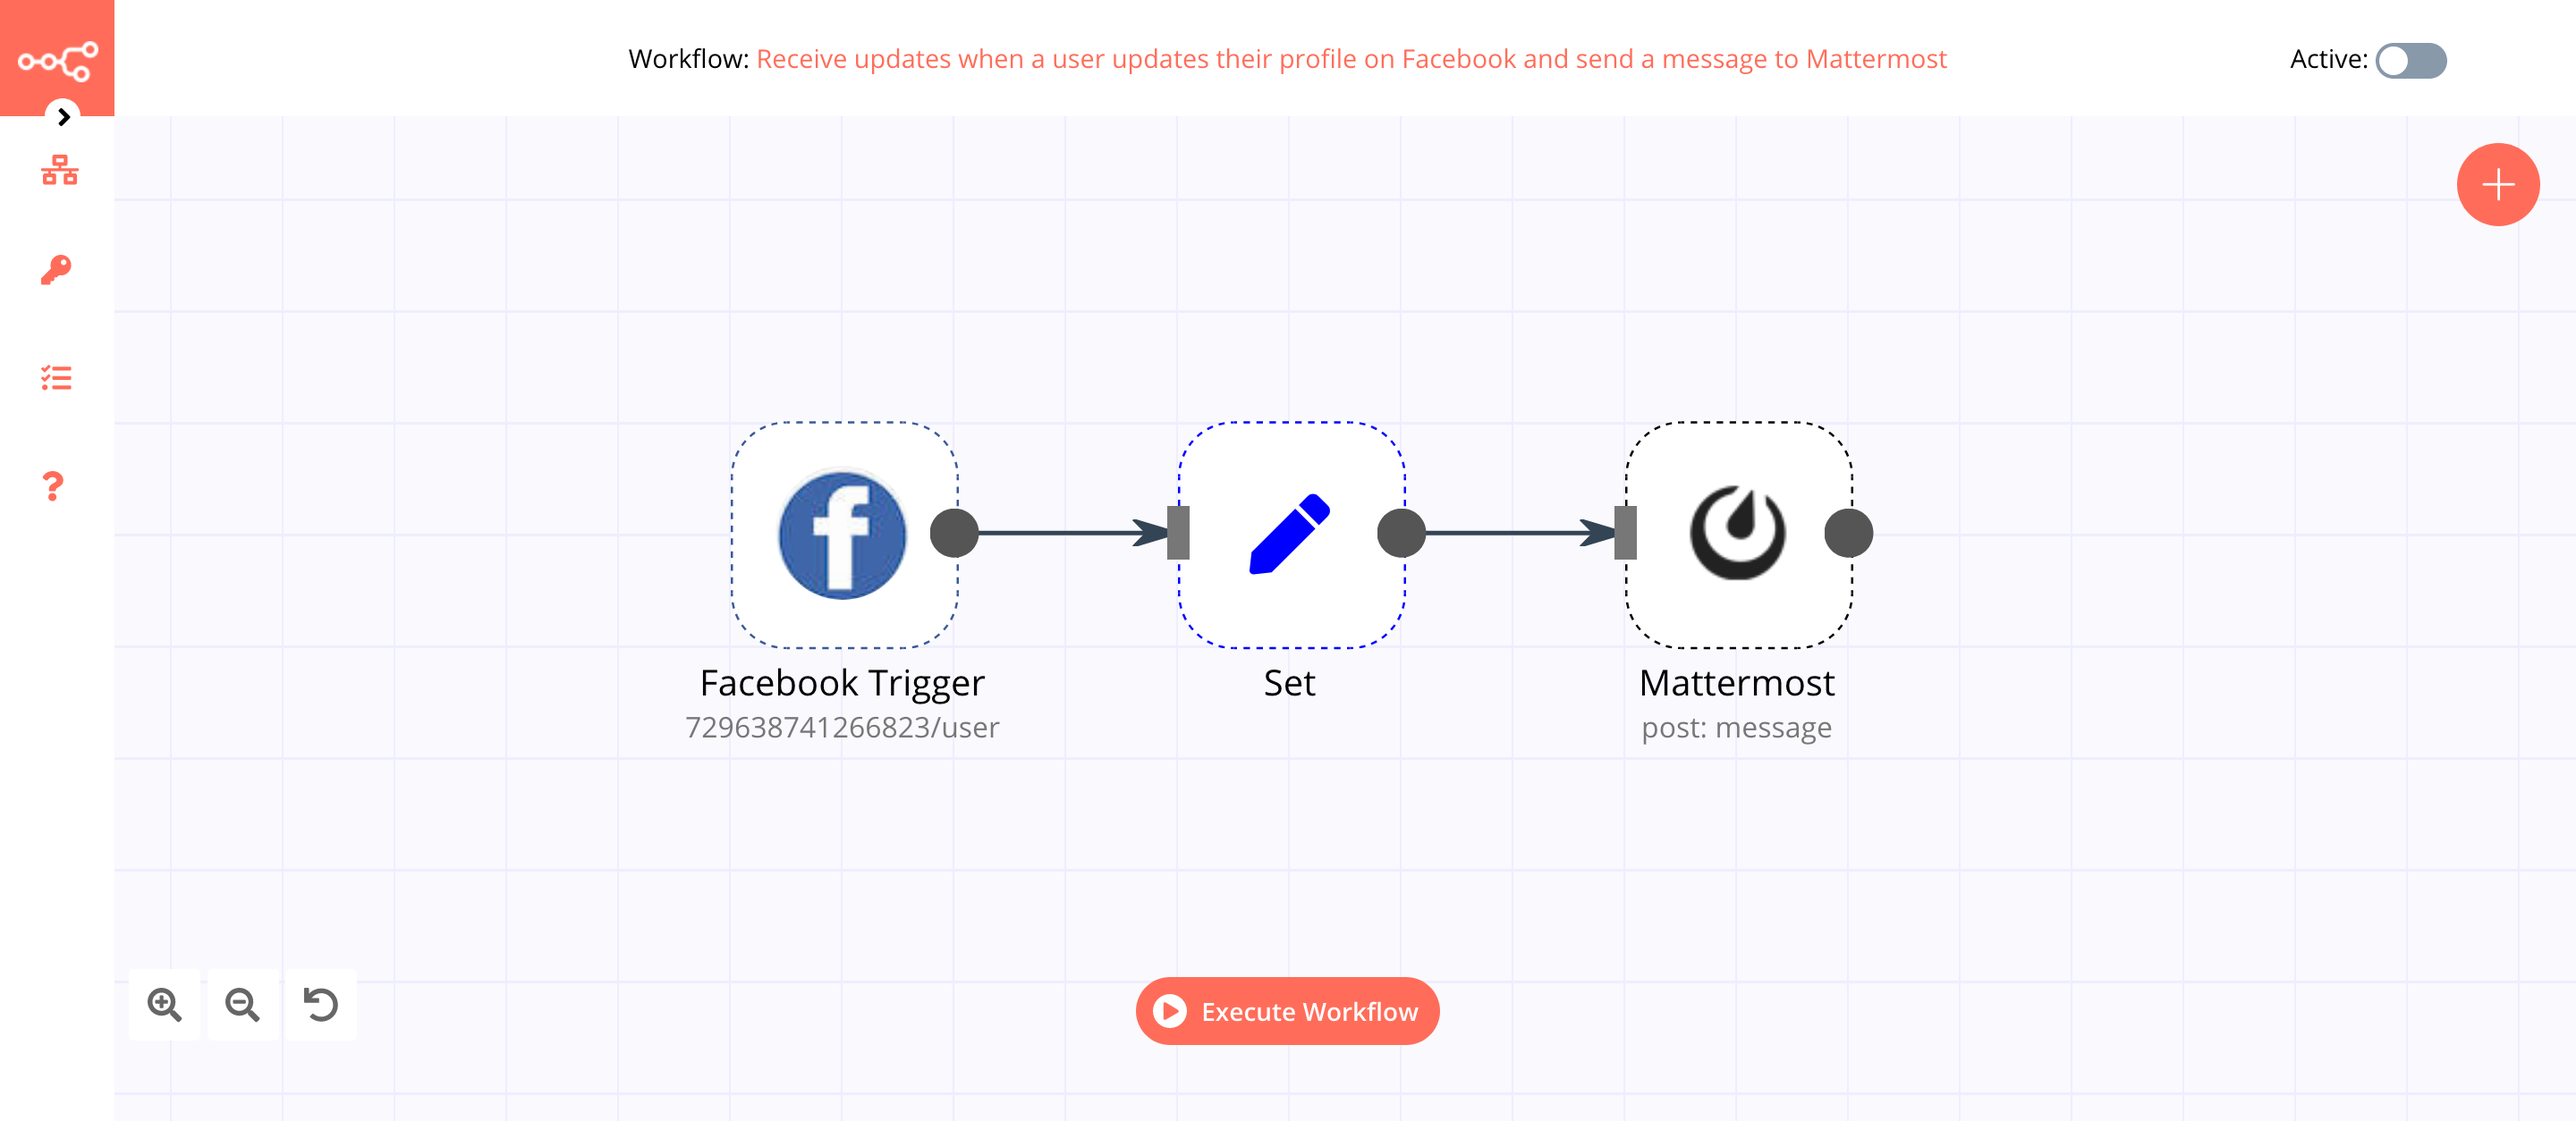
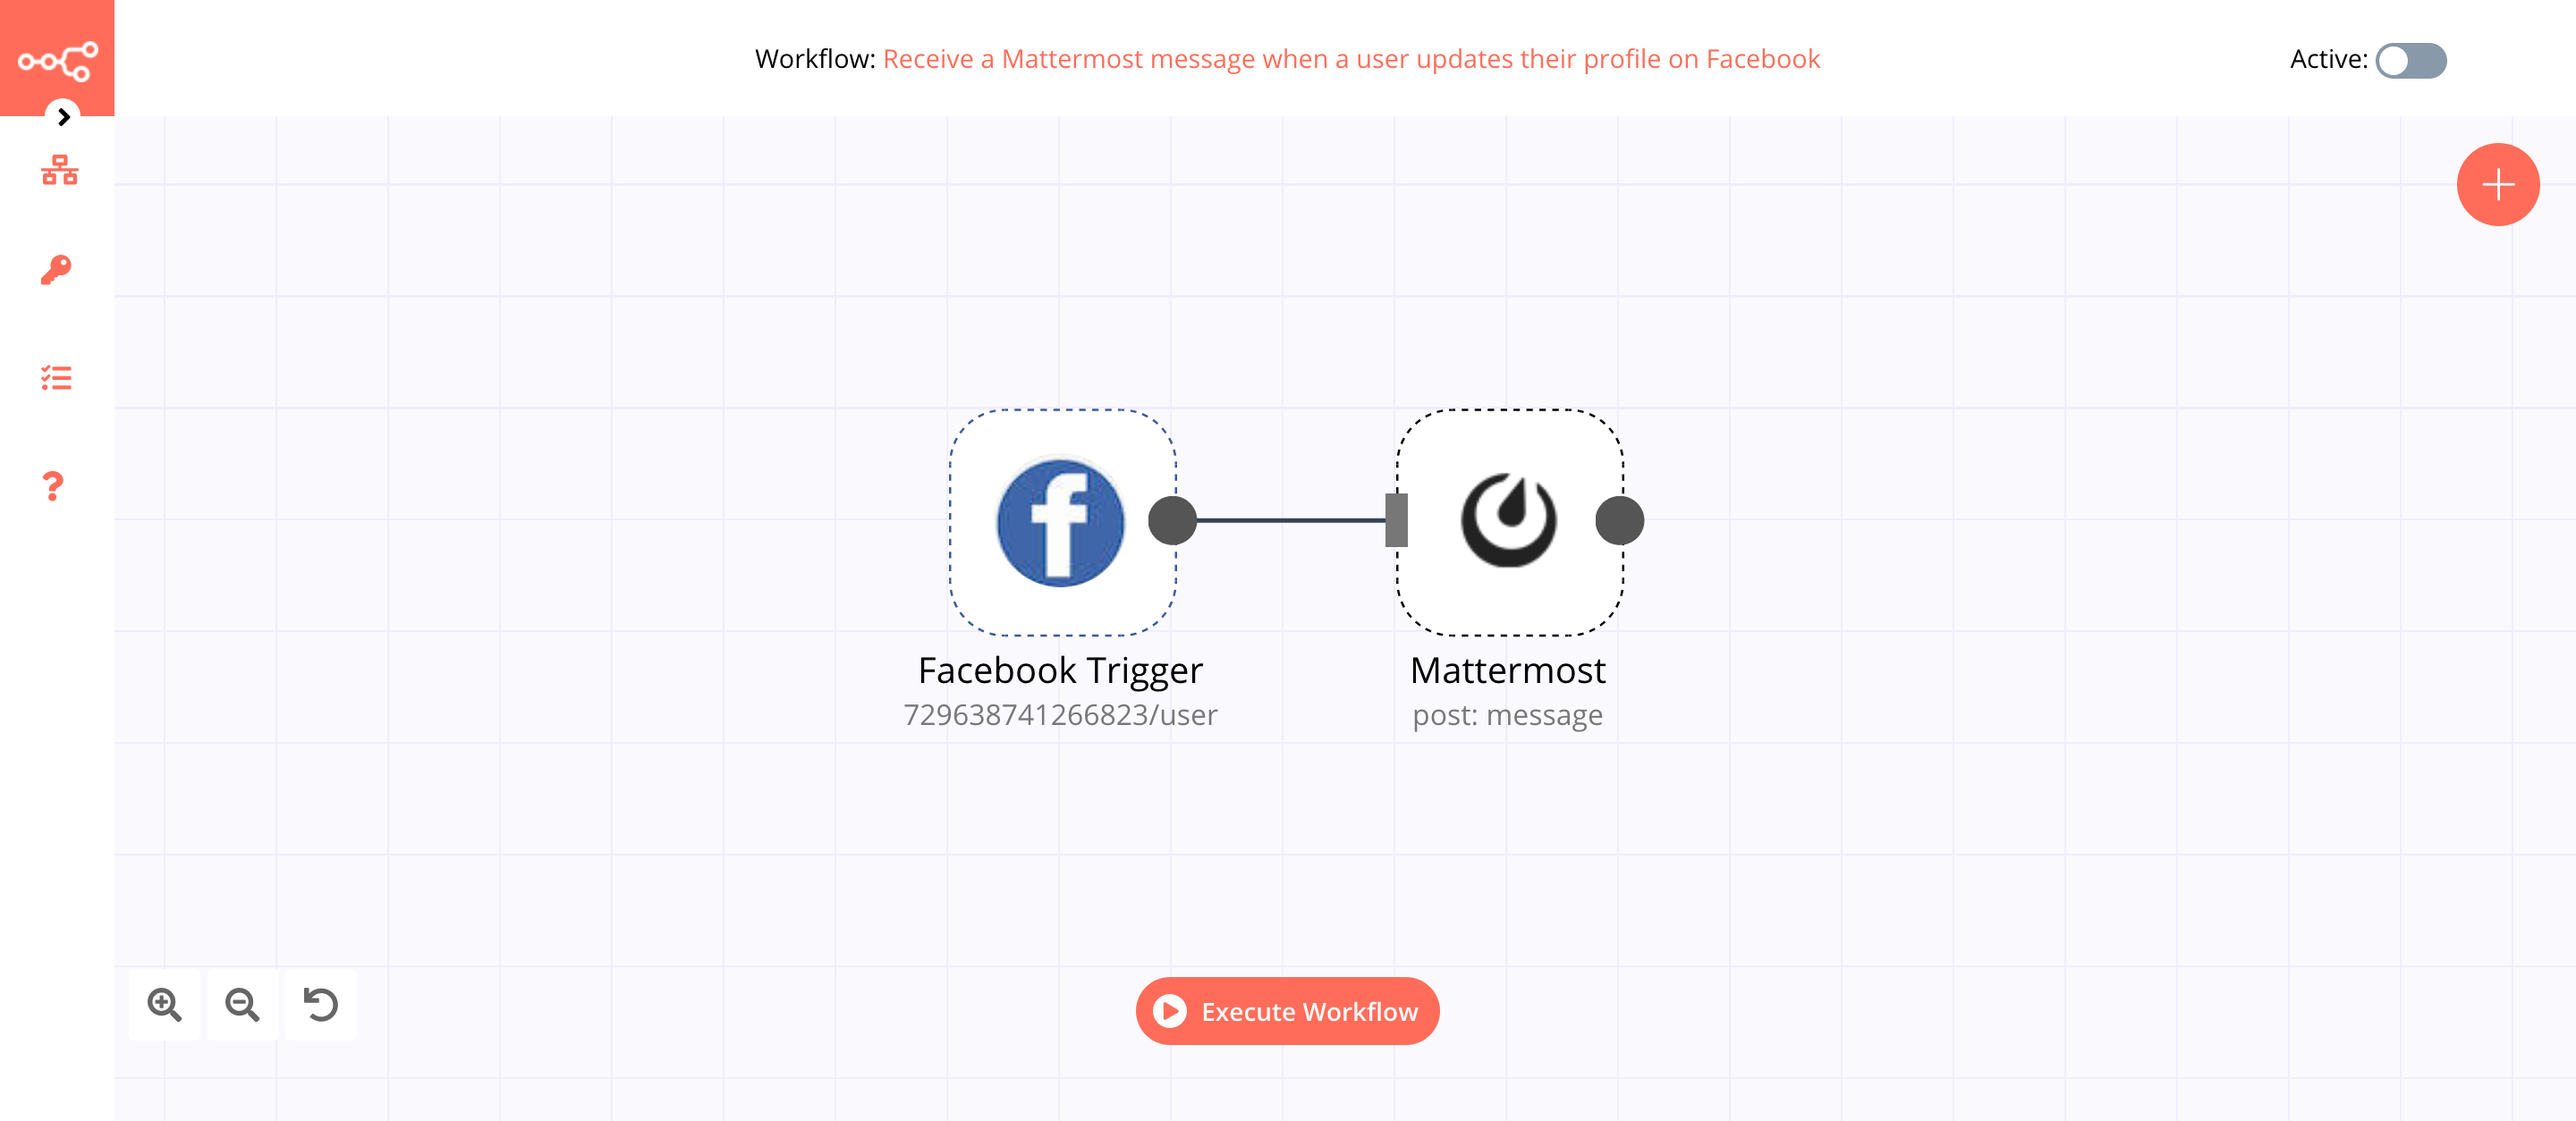
🔨Fix workflow

diff --git a/docs/nodes/nodes-library/trigger-nodes/FacebookTrigger/README.md b/docs/nodes/nodes-library/trigger-nodes/FacebookTrigger/README.md
@@ -27,9 +27,8 @@ You can find authentication information for this node [here](../../../credential
 
 ## Example Usage
 
-This workflow allows you to receive updates when a user updates their profile on Facebook using the Facebook Trigger node. It also allows you to send a message to Mattermost about the update. You can also find the [workflow](https://n8n.io/workflows/785) on n8n.io. This example usage workflow would use the following nodes.
+This workflow allows you to receive a Mattermost message when a user updates their profile on Facebook. You can also find the [workflow](https://n8n.io/workflows/785) on n8n.io. This example usage workflow would use the following nodes.
 - [Facebook Trigger]()
-- [Set](../../core-nodes/Set/README.md)
 - [Mattermost](../../nodes/Mattermost/README.md)
 
 The final workflow should look like the following image.
@@ -49,31 +48,7 @@ In the screenshot below, you will notice that the node returns the updated infor
 
 ![Using the Facebook Trigger node to trigger the workflow](./FacebookTrigger_node.png)
 
-### 2. Set node
-
-We will use the Set node to ensure that only the data that we set in this node gets passed on to the next nodes in the workflow.
-::: v-pre
-1. Click on ***Add Value*** and select 'String' from the dropdown list.
-2. Enter `field` in the ***Name*** field.
-3. Click on the gears icon next to the ***Value*** field and click on ***Add Expression***.
-4. Select the following in the ***Variable Selector*** section: Nodes > Facebook Trigger > Output Data > JSON > changes > [Item: 0] > field. You can also add the following expression: `{{$node["Facebook Trigger"].json["changes"][0]["field"]}}`.
-5. Click on ***Add Value*** and select 'String' from the dropdown list.
-6. Click on the gears icon next to the ***Name*** field and click on ***Add Expression***.
-7. Select the following in the ***Variable Selector*** section: Nodes > Facebook Trigger > Output Data > JSON > changes > [Item: 0] > field. You can also add the following expression: `{{$node["Facebook Trigger"].json["changes"][0]["field"]}}`.
-8. Click on the gears icon next to the ***Value*** field and click on ***Add Expression***.
-9. Select the following in the ***Variable Selector*** section: Nodes > Facebook Trigger > Output Data > JSON > changes > [Item: 0] > value > page. You can also add the following expression: `{{$node["Facebook Trigger"].json["changes"][0]["value"]["page"]}}`.
-10. Click on ***Add Value*** and select 'String' from the dropdown list.
-11. Enter `uid` in the ***Name*** field.
-12. Click on the gears icon next to the ***Value*** field and click on ***Add Expression***.
-13. Select the following in the ***Variable Selector*** section: Nodes > Facebook Trigger > Output Data > JSON > uid. You can also add the following expression: `{{$node["Facebook Trigger"].json["uid"]}}`.
-14. Toggle ***Keep Only Set*** to `true`. We set this option to true to ensure that only the data that we have set in this node get passed on to the next nodes in the workflow.
-15. Click on ***Execute Node*** to run the node.
-:::
-In the screenshot below, you will notice that the node uses the data from the previous node and returns the data that we set for the workflow.
-
-![Using the Set node to set the data](./Set_node.png)
-
-### 3. Mattermost node (post: message)
+### 2. Mattermost node (post: message)
 
 This node will send a message of the updated information in the channel `Information Updated` in Mattermost. If you have a different channel, use that instead.
 ::: v-pre
